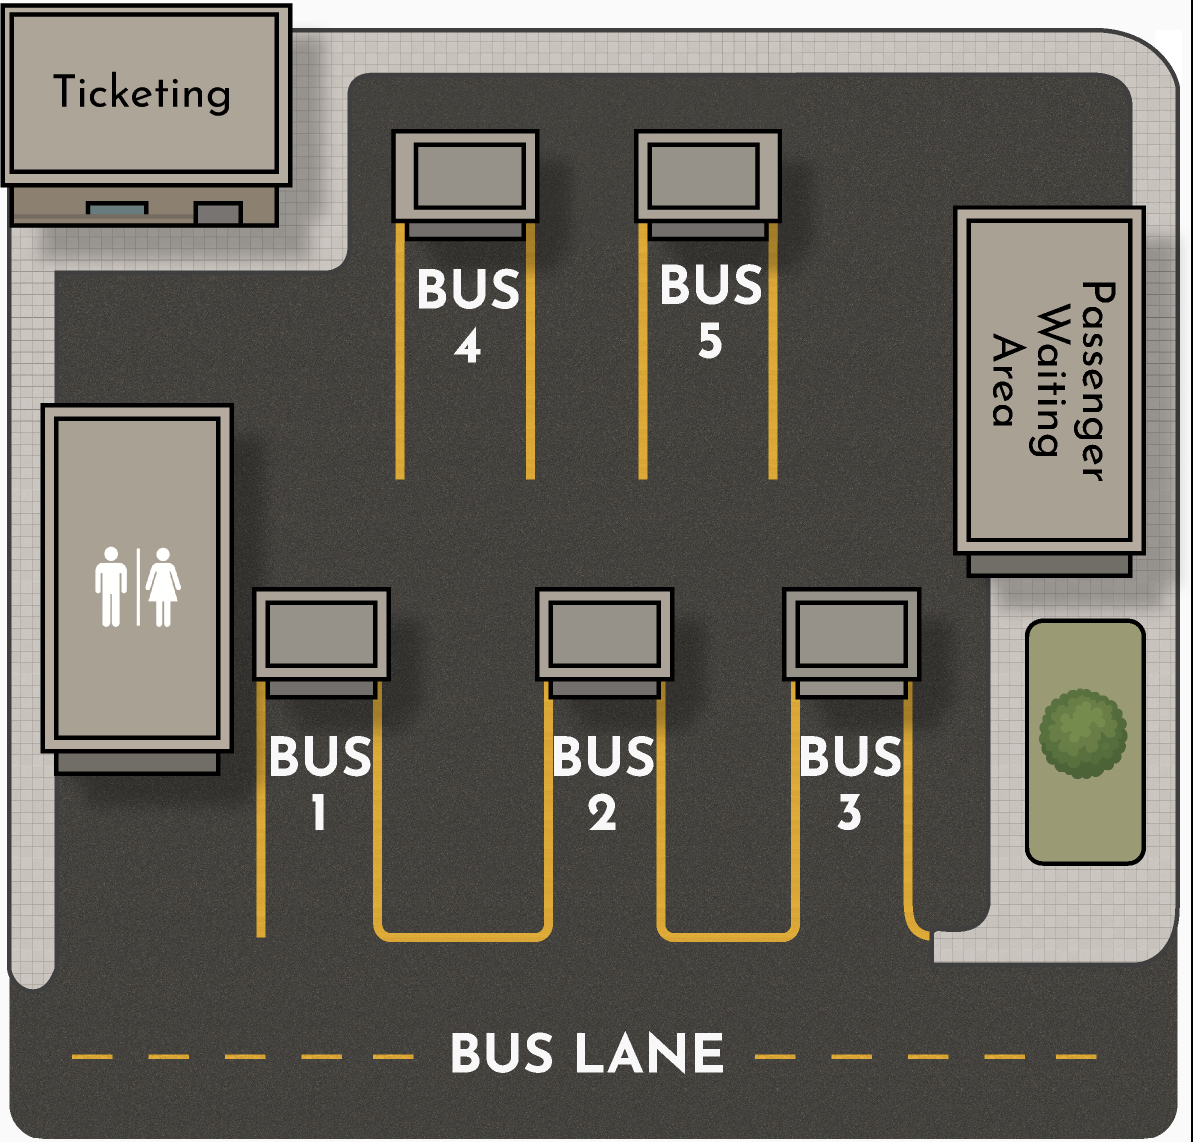
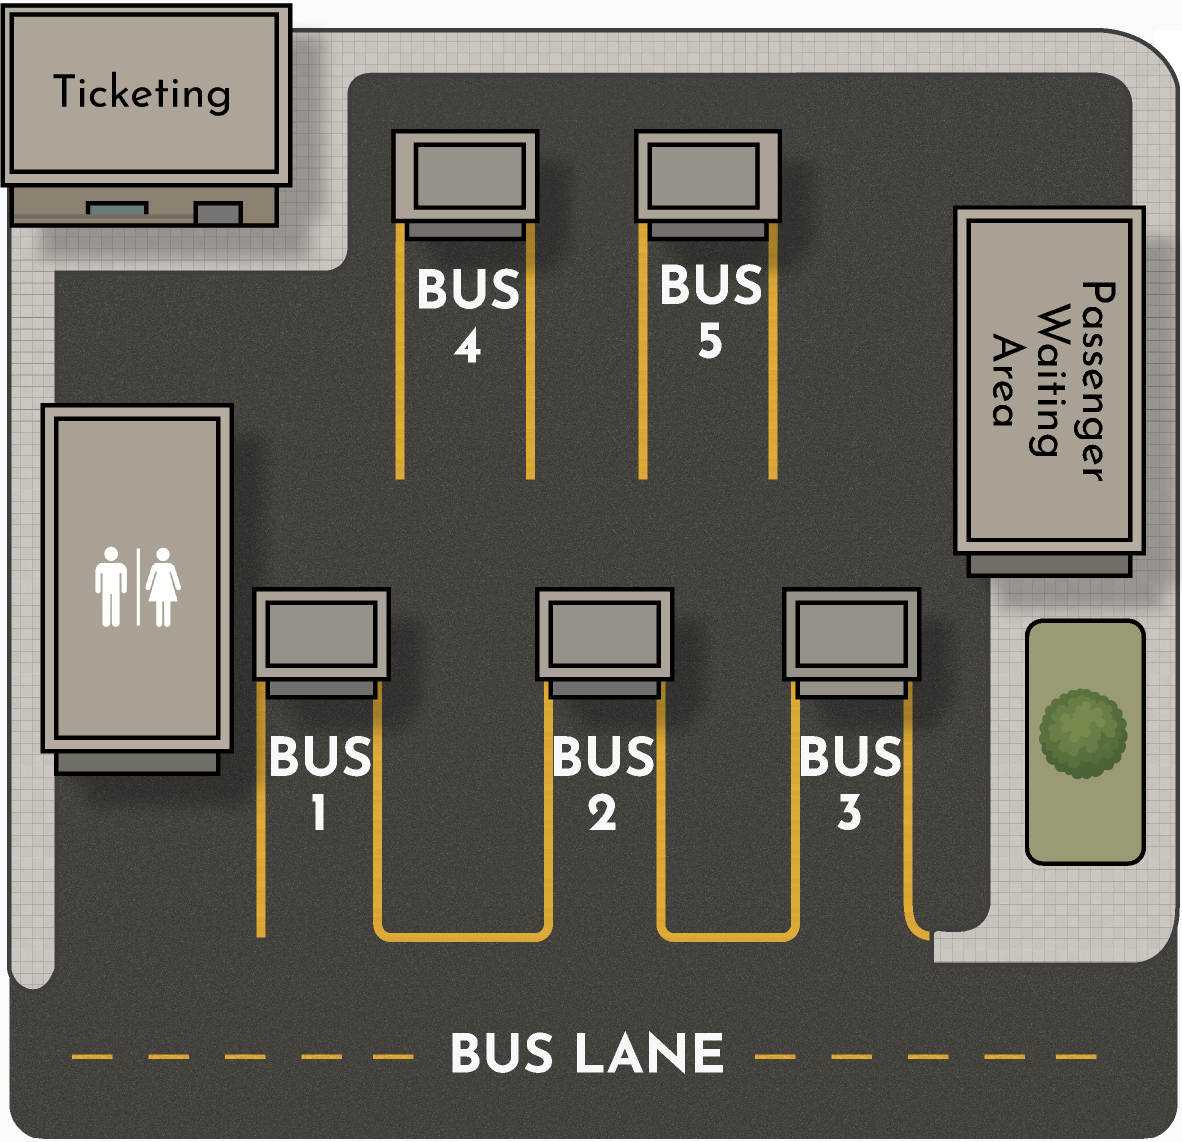
idle screens ready

diff --git a/src/pages/IdleScreen1.tsx b/src/pages/IdleScreen1.tsx
@@ -5,7 +5,7 @@ export default function IdleScreen1() {
 
   return (
     <div className="relative h-full w-full bg-white flex flex-col">
-        <div className="bg-[#f28c28] text-white text-center py-2 text-lg font-semibold">
+        <div className="bg-[#f28c28] text-white text-center py-3 text-3xl font-bold tracking-wide">
           Bus Terminal Map
         </div>
 
@@ -20,7 +20,7 @@ export default function IdleScreen1() {
       {/* Touch to Start Bar */}
       <div
         onClick={() => nav("/home")}
-        className="absolute bottom-0 left-0 right-0 bg-[#f28c28] text-white text-center text-xl font-semibold py-6 cursor-pointer rounded-b-[25px]"
+        className="absolute bottom-0 left-0 right-0 bg-[#f28c28] text-white text-center text-2xl font-extrabold py-6 cursor-pointer rounded-b-[25px] tracking-wide shadow-lg"
       >
         Touch to Start
       </div>

diff --git a/src/pages/IdleScreen2.tsx b/src/pages/IdleScreen2.tsx
@@ -28,7 +28,7 @@ export default function IdleScreen2() {
       {/* Touch to Start Bar */}
       <div
         onClick={() => nav("/home")}
-        className="absolute bottom-0 left-0 right-0 bg-[#f28c28] text-white text-center text-xl font-semibold py-6 cursor-pointer rounded-b-[25px]"
+        className="absolute bottom-0 left-0 right-0 bg-[#f28c28] text-white text-center text-2xl font-extrabold py-6 cursor-pointer rounded-b-[25px] tracking-wide shadow-lg"
       >
         Touch to Start
       </div>
